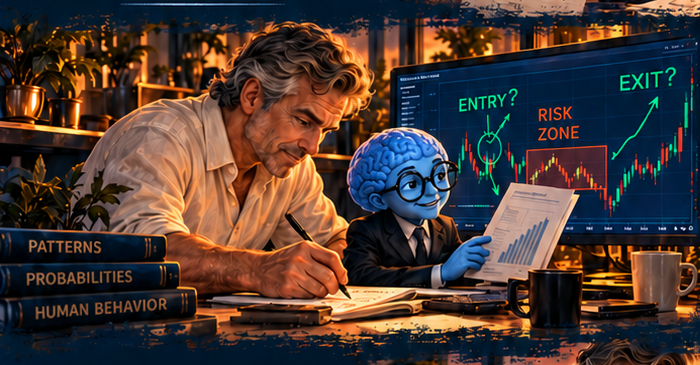
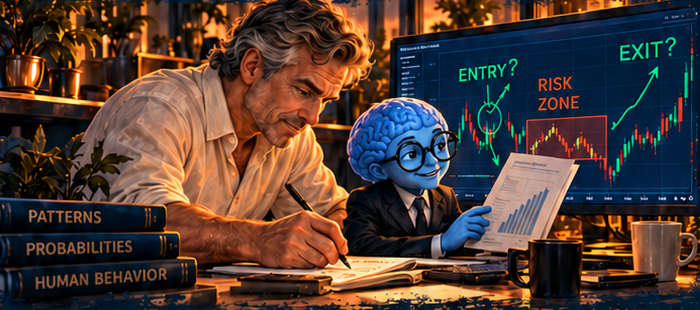
Crop the partnership scene so the previous panel no longer shows through.

diff --git a/src/app/story/page.tsx b/src/app/story/page.tsx
@@ -136,7 +136,7 @@ export default function StoryPage() {
           className="beat-art"
           src="/images/story/partnership.png"
           width={700}
-          height={365}
+          height={310}
           sizes="(max-width: 800px) 92vw, 54vw"
           alt="The trader writes while SuperIntelligence holds the numbers beside an entry and exit chart."
         />
